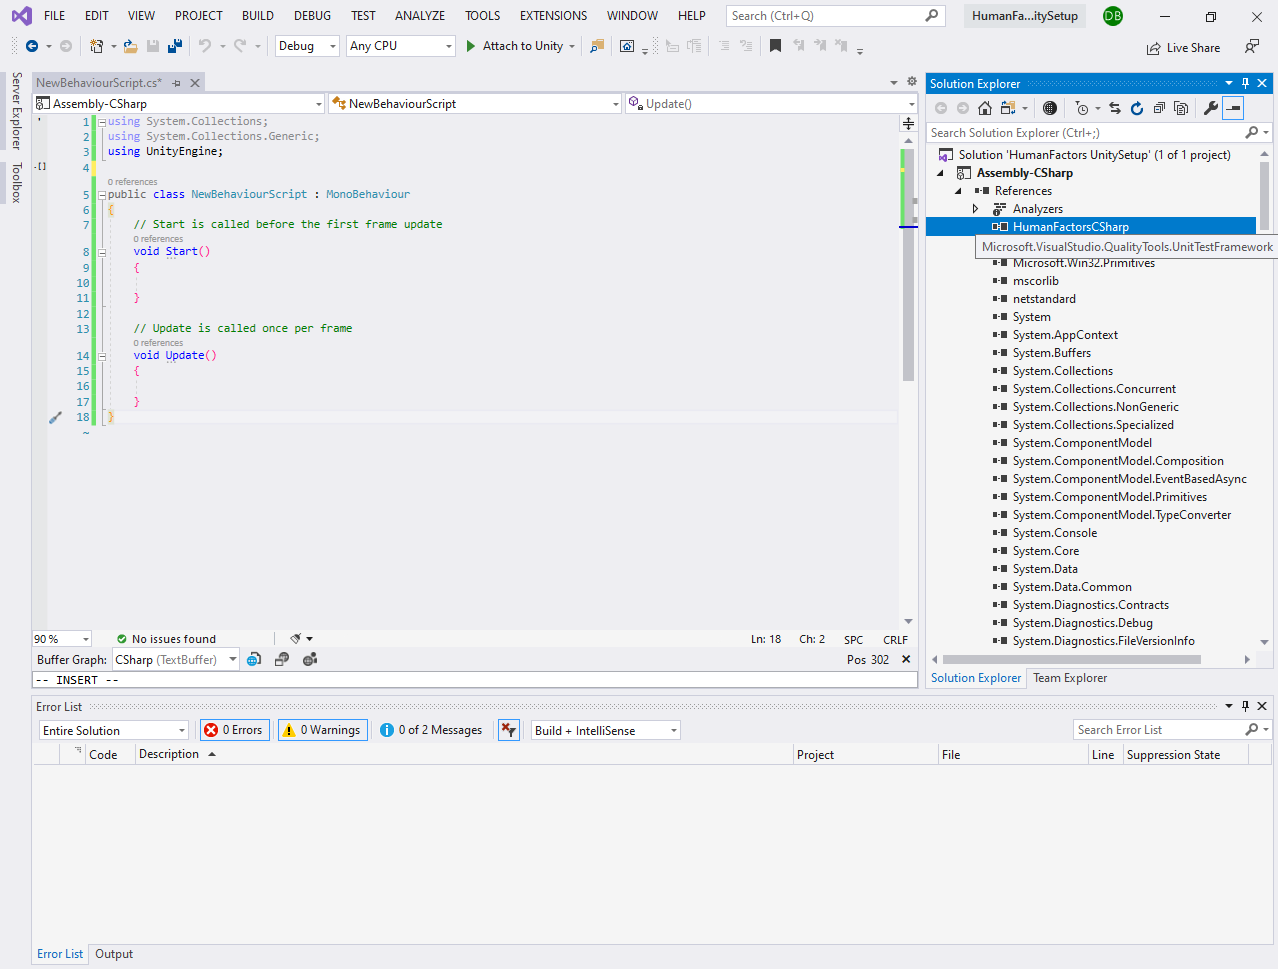
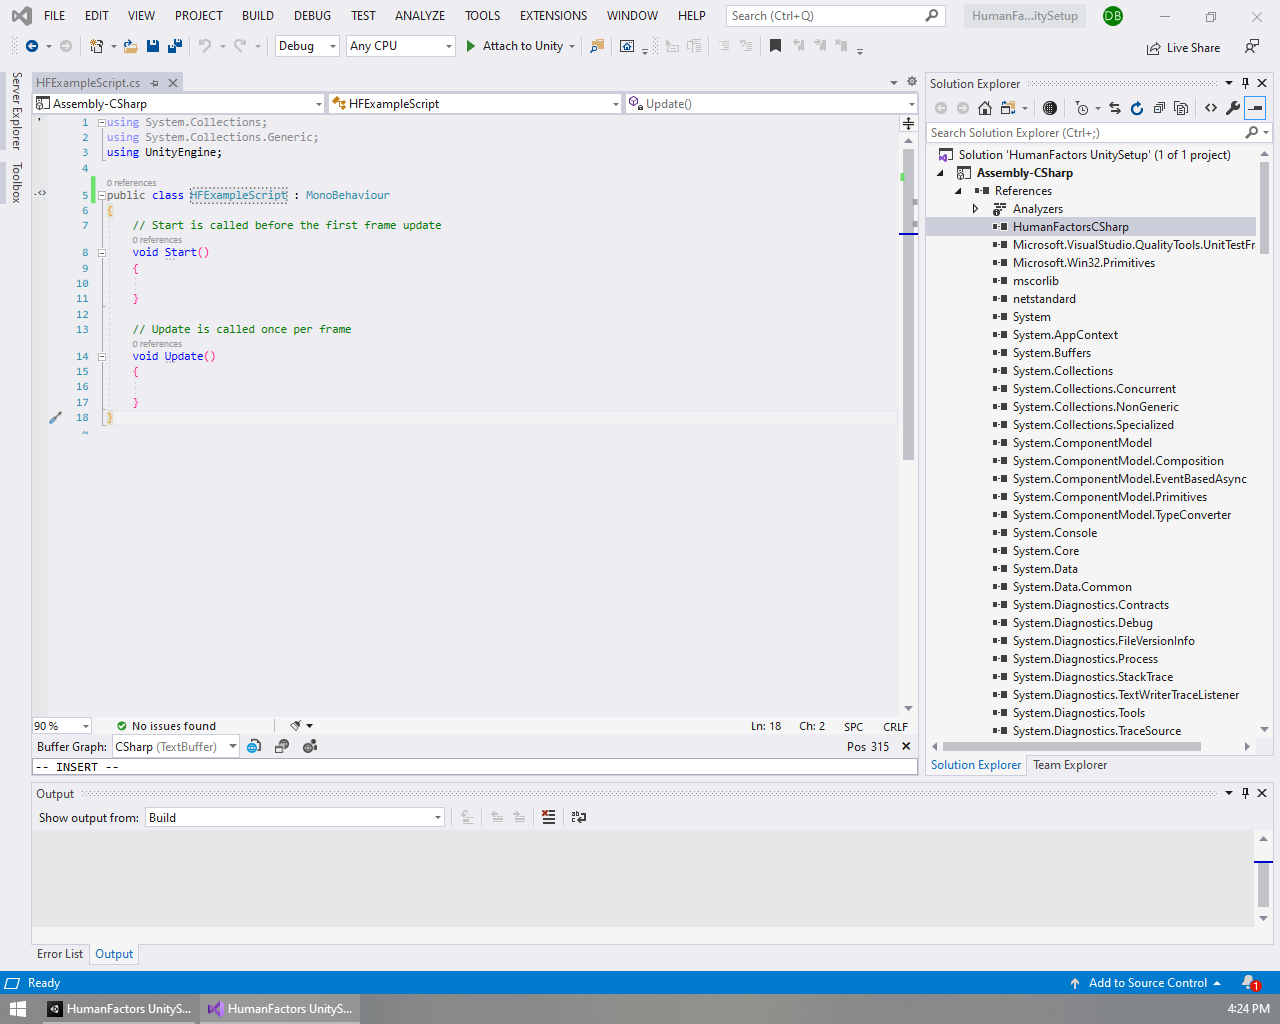
Rename default script in tutorial 1

diff --git a/docs/C# Documentation/markdown/1_unity_project_setup.md b/docs/C# Documentation/markdown/1_unity_project_setup.md
@@ -13,7 +13,7 @@ Next Tutorial: [Project Setup](1_unity_project_setup.md)
 
 ## Before we begin
 
- This guide will demonstrate setting up a new Unity project from scratch, importing the HumanFactors API as an asset, then verifying it can be referenced by the Unity Project.
+ This guide will demonstrate setting up a new Unity project from scratch, importing the HumanFactors API as an asset, then verifying the Unity project can reference it.
 
  In this guide we will cover the following:
 
@@ -24,7 +24,7 @@ Next Tutorial: [Project Setup](1_unity_project_setup.md)
 ### Prerequisites
 
 - An installation of [Unity](https://unity3d.com/get-unity/download). This tutorial has been tested with Unity 2019.3f, but should work from 2018.3 on.
-- An installation of Visual Studio with Unity integration. Instructions for installing Unity with support for Visual Studio, or adding VisualStudio support to an existing installation of Unity are available [here](https://docs.microsoft.com/en-us/visualstudio/cross-platform/getting-started-with-visual-studio-tools-for-unity?view=vs-2019).
+- An installation of Visual Studio with Unity integration. Instructions for installing Unity with support for Visual Studio or adding VisualStudio support to an existing installation of Unity are available [here](https://docs.microsoft.com/en-us/visualstudio/cross-platform/getting-started-with-visual-studio-tools-for-unity?view=vs-2019).
 - A copy of the HumanFactors release built with support for C#. The `bin` folder of the release should contain the following files:
   1. embree3.dll
   2. HumanFactors.dll
@@ -44,19 +44,18 @@ Next Tutorial: [Project Setup](1_unity_project_setup.md)
 
 *Figure* **1.1**: *Creating a new project in the Unity Hub*
 
-To begin, open up the Unity Hub then click the *NEW* button  to create a new project.
- a new unity project.
+To begin, open the Unity Hub then click the *NEW* button to create a new project.
 
 ![Choose Project Type](../assets/walkthroughs/unity/1_project_setup/unity_choose_project_type.PNG)
 
 *Figure* **1.2**: *The Create a Project Dialog*
 
-Select your desired project type, directory, and project name. For the sake of this tutorial, we will be using the *3D* project type, and naming our project *HumanFactorsUnitySetup*. When done with this, press the *Create* button to create the project and wait while unity imports all the necessary info.
+Select your desired project type, directory, and project name. For the sake of this tutorial, we will be using the *3D* project type and naming our project *HumanFactorsUnitySetup*. When done with this, press the *Create* button to create the project and wait while Unity imports all the necessary files.
 
 ![Empty Unity Scene](../assets/walkthroughs/unity/1_project_setup/blank_unity_scene.PNG)
 *Figure* **1.3**: *An empty Unity scene*
 
-Upon completion you should be greeted by an empty Unity Scene.
+Upon completion you should be greeted by an empty Unity scene.
 
 ## Importing the Human Factors Library
 
@@ -70,7 +69,7 @@ Unzip the HumanFactors release package to another location (Don't try to drag an
 
 ## Verifying Unity can reference HumanFactors
 
-The binaries have been added to our project as assets, but let's make sure Unity is able to reference them in code. To verify that Unity is able to reference the HumanFactors binaries, we're going to create a new script and look at its references. If we did everything correctly, Unity should automatically have added HumanFactorsCSharp as a reference.
+The binaries have been added to our project as assets, but let's make sure Unity is able to reference them in code. To verify that Unity can reference the HumanFactors binaries, we're going to create a new script and look at its references. If we did everything correctly, Unity should automatically have added HumanFactorsCSharp as a reference.
 
 !["Creating a new C# script"](../assets/walkthroughs/unity/1_project_setup/create_new_script.png)
 
@@ -78,18 +77,30 @@ The binaries have been added to our project as assets, but let's make sure Unity
 
 Right click on a blank space in the assets window, hover over *Create*, then click *C# Script*.
 
-!["Double Click On Script"](../assets/walkthroughs/unity/1_project_setup/double_click_on_script.png)
-*Figure* **1.6**: *NewBehaviourScript.cs*
+![Don't click anything! Rename the script](../assets/walkthroughs/unity/1_project_setup/../2_raycast_at_plane/rename_script.png)
 
-Looking in the assets window, you should notice a new script titled NewBehaviourScript.cs by default. We will leave this as its name, and refer to it as NewBehaviorScript from now on. Double click on NewBehaviourScript to open Visual Studio.
+*Figure*  **1.6**: *Renaming a new script*
+
+Looking in the assets window, you should notice a new script file next to Scenes directory titled NewBehaviourScript.cs by default, and the name of it is highlighted in blue indicatign that you can rename it. Rename the script to HFExampleScript.cs.
+
+>**NOTE:** If you didn't name the file properly, don't worry. You can change the name of the script by right clicking on it and clicking *Rename*.
+>![Rename Dialog](../assets/walkthroughs/unity/1_project_setup/../2_raycast_at_plane/rename_dialog.png)
+
+!["Double Click On Script"](../assets/walkthroughs/unity/1_project_setup/double_click_on_script.png)
+*Figure* **1.7**: *HFExampleScript.cs in the assets window*
+
+Now that we have our new script, double click on it to open Visual studio.
 
 !["HumanFactors referenced by your project"](../assets/walkthroughs/unity/1_project_setup/visual_studio_human_factors_reference.png)
 
-*Figure* **1.7**: *Viewing the references of a project in Visual Studio*
+*Figure* **1.8**: *Viewing the references of a project in Visual Studio*
 
-In Visual Studio, navigate to the *Solution Explorer* then expand the drop downs for your solution, Assembly-C-Sharp, and References. If everything was done correctly, you should see HumanFactors C# under the references for your project, as shown in Figure 1.7.
+In Visual Studio, navigate to the *Solution Explorer* then expand the drop downs for your solution, Assembly-C-Sharp, and References. If everything was done correctly, you should see HumanFactors C# under the references for your project, as shown in Figure 1.8.
 
 > **NOTE**: If Mono-Develop appears instead of Visual Studio, then your installation of Unity is not set up to support Visual Studio. You can follow the above instructions from [Prerequisites](#prerequisites) to fix this.
+
+> **NOTE**: If you renamed the file earlier, then your class's name may not match the name of the class in Figure 1.8. To fix this, just replace the class's name with `HFExampleScript.cs` on line 5. 
+> !["Change Class name"](../assets/walkthroughs/unity/1_project_setup/../2_raycast_at_plane/change_class_name.png)
 
 >**NOTE:** Your version of Visual Studio may use the light theme by default like pictured below. This is purely visual and will not have any impact on this tutorial.
 > !["Light Theme"](../assets/walkthroughs/unity/1_project_setup/light_visual_studio.png)
@@ -104,4 +115,4 @@ Below is a link to the unity project created in this tutorial.
 
 In this tutorial, we went through the process of creating unity project and adding the Analysis toolkit to the project. In the following tutorials, we will use this basis for using the modules that come with the Analysis toolkit.
 
-In the next turorial: [Using the Raytracer](2_raycast_at_plane.md) we will use HumanFactors to create a plane, cast a ray at it, then get the point where the ray intersected the plane.
+In the next tutorial: [Using the Raytracer](2_raycast_at_plane.md) we will use HumanFactors to create a plane, cast a ray at it, then get the point where the ray intersected the plane.
